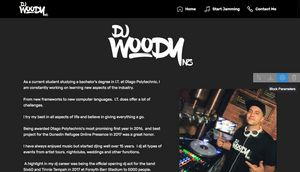
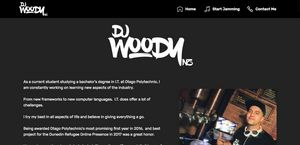
soundcloud

diff --git a/index.html b/index.html
@@ -327,7 +327,7 @@ Dunedin DJ">
 <section class="cid-rQE02uQKVF" id="social-buttons2-b">
 
     
-
+<iframe width="100%" height="300" scrolling="no" frameborder="no" allow="autoplay" src="https://w.soundcloud.com/player/?url=https%3A//api.soundcloud.com/tracks/11513347&color=%2349198e&auto_play=false&hide_related=false&show_comments=true&show_user=true&show_reposts=false&show_teaser=true&visual=true"></iframe>
     
 
     <div class="container">
